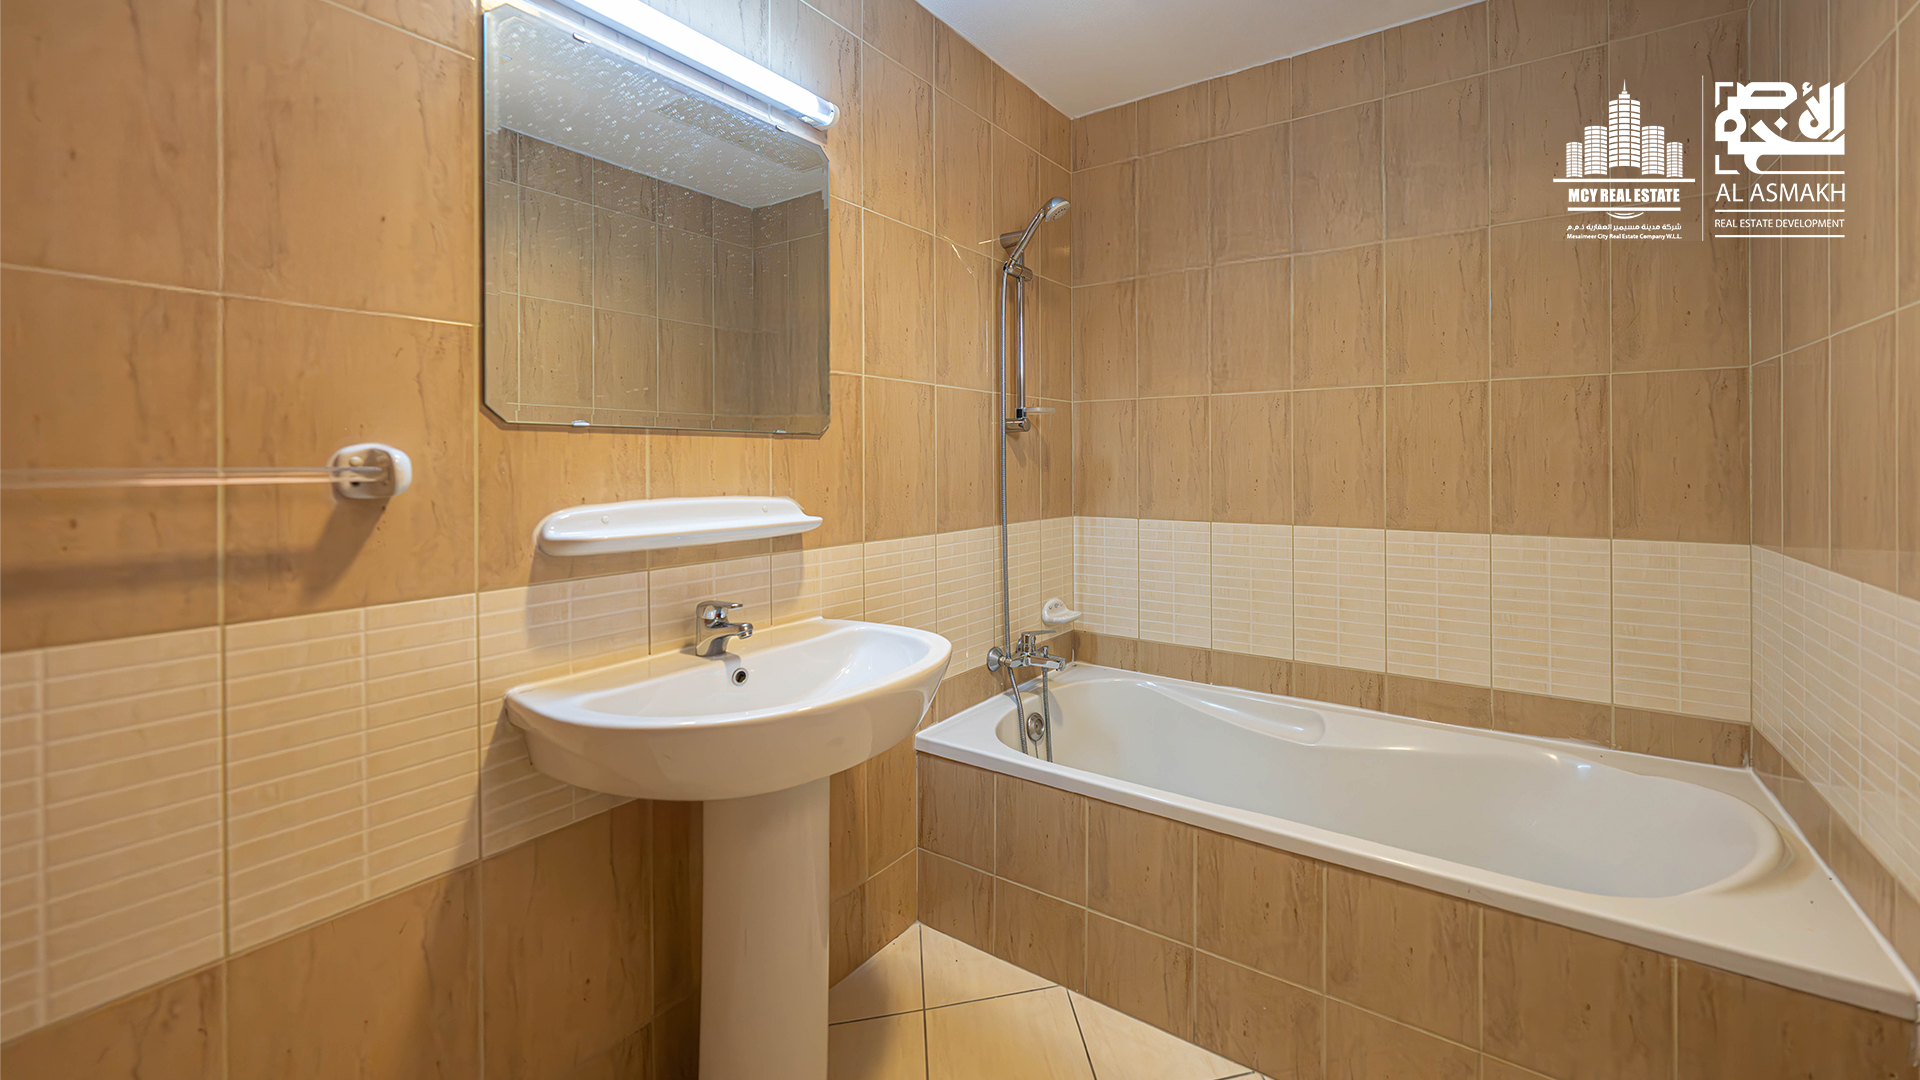
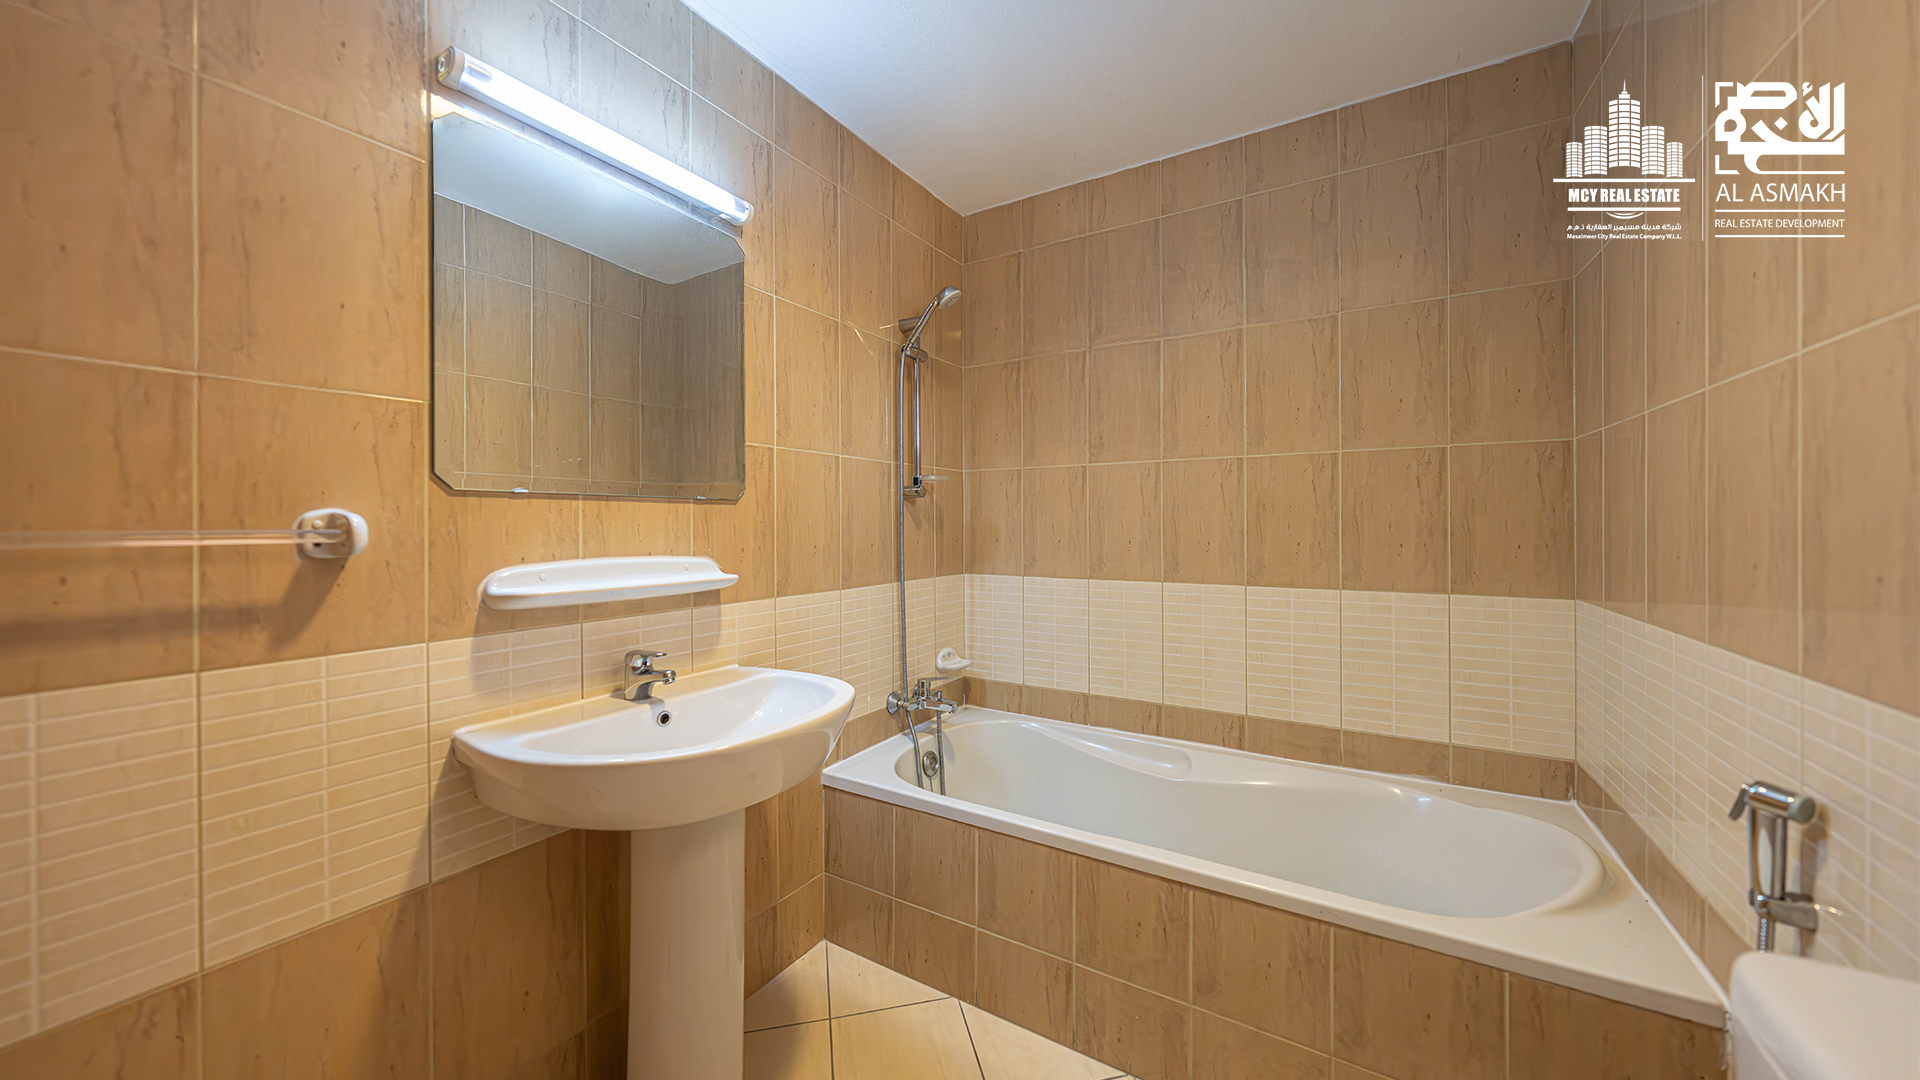
change cinema with sport

diff --git a/app/components/amenities-section.tsx b/app/components/amenities-section.tsx
@@ -1,6 +1,6 @@
 "use client"
 
-import {PiSwimmingPoolLight, PiTreeEvergreen} from "react-icons/pi";
+import {PiCourtBasketballLight, PiSwimmingPoolLight, PiTreeEvergreen} from "react-icons/pi";
 import {GiKidSlide} from "react-icons/gi";
 import {RiMovie2Line} from "react-icons/ri";
 import {useTranslations} from "next-intl";
@@ -14,9 +14,13 @@ const amenities = [
         icon: <GiKidSlide className={"w-10 h-10 mb-4"}/>,
         label: "kids",
     },
+    // {
+    //     icon: <RiMovie2Line className={"w-10 h-10 mb-4"}/>,
+    //     label: "cinema",
+    // },
     {
-        icon: <RiMovie2Line className={"w-10 h-10 mb-4"}/>,
-        label: "cinema",
+        icon: <PiCourtBasketballLight className={"w-10 h-10 mb-4"}/>,
+        label: "sport",
     },
     {
         icon: <PiTreeEvergreen className={"w-10 h-10 mb-4"}/>,

diff --git a/app/components/property-section1.tsx b/app/components/property-section1.tsx
@@ -36,6 +36,7 @@ export default function PropertySection() {
         "/images/new_pictures/interior/ARE02279-Enhanced-NR.jpg",
         "/images/new_pictures/interior/ARE02284-Enhanced-NR.jpg",
         "/images/new_pictures/interior/ARE02287-Enhanced-NR.jpg",
+        "/images/new_pictures/interior/ARE02299-Enhanced-NR.jpg",
         "/images/new_pictures/interior/ARE02291-Enhanced-NR.jpg",
     ]
 
